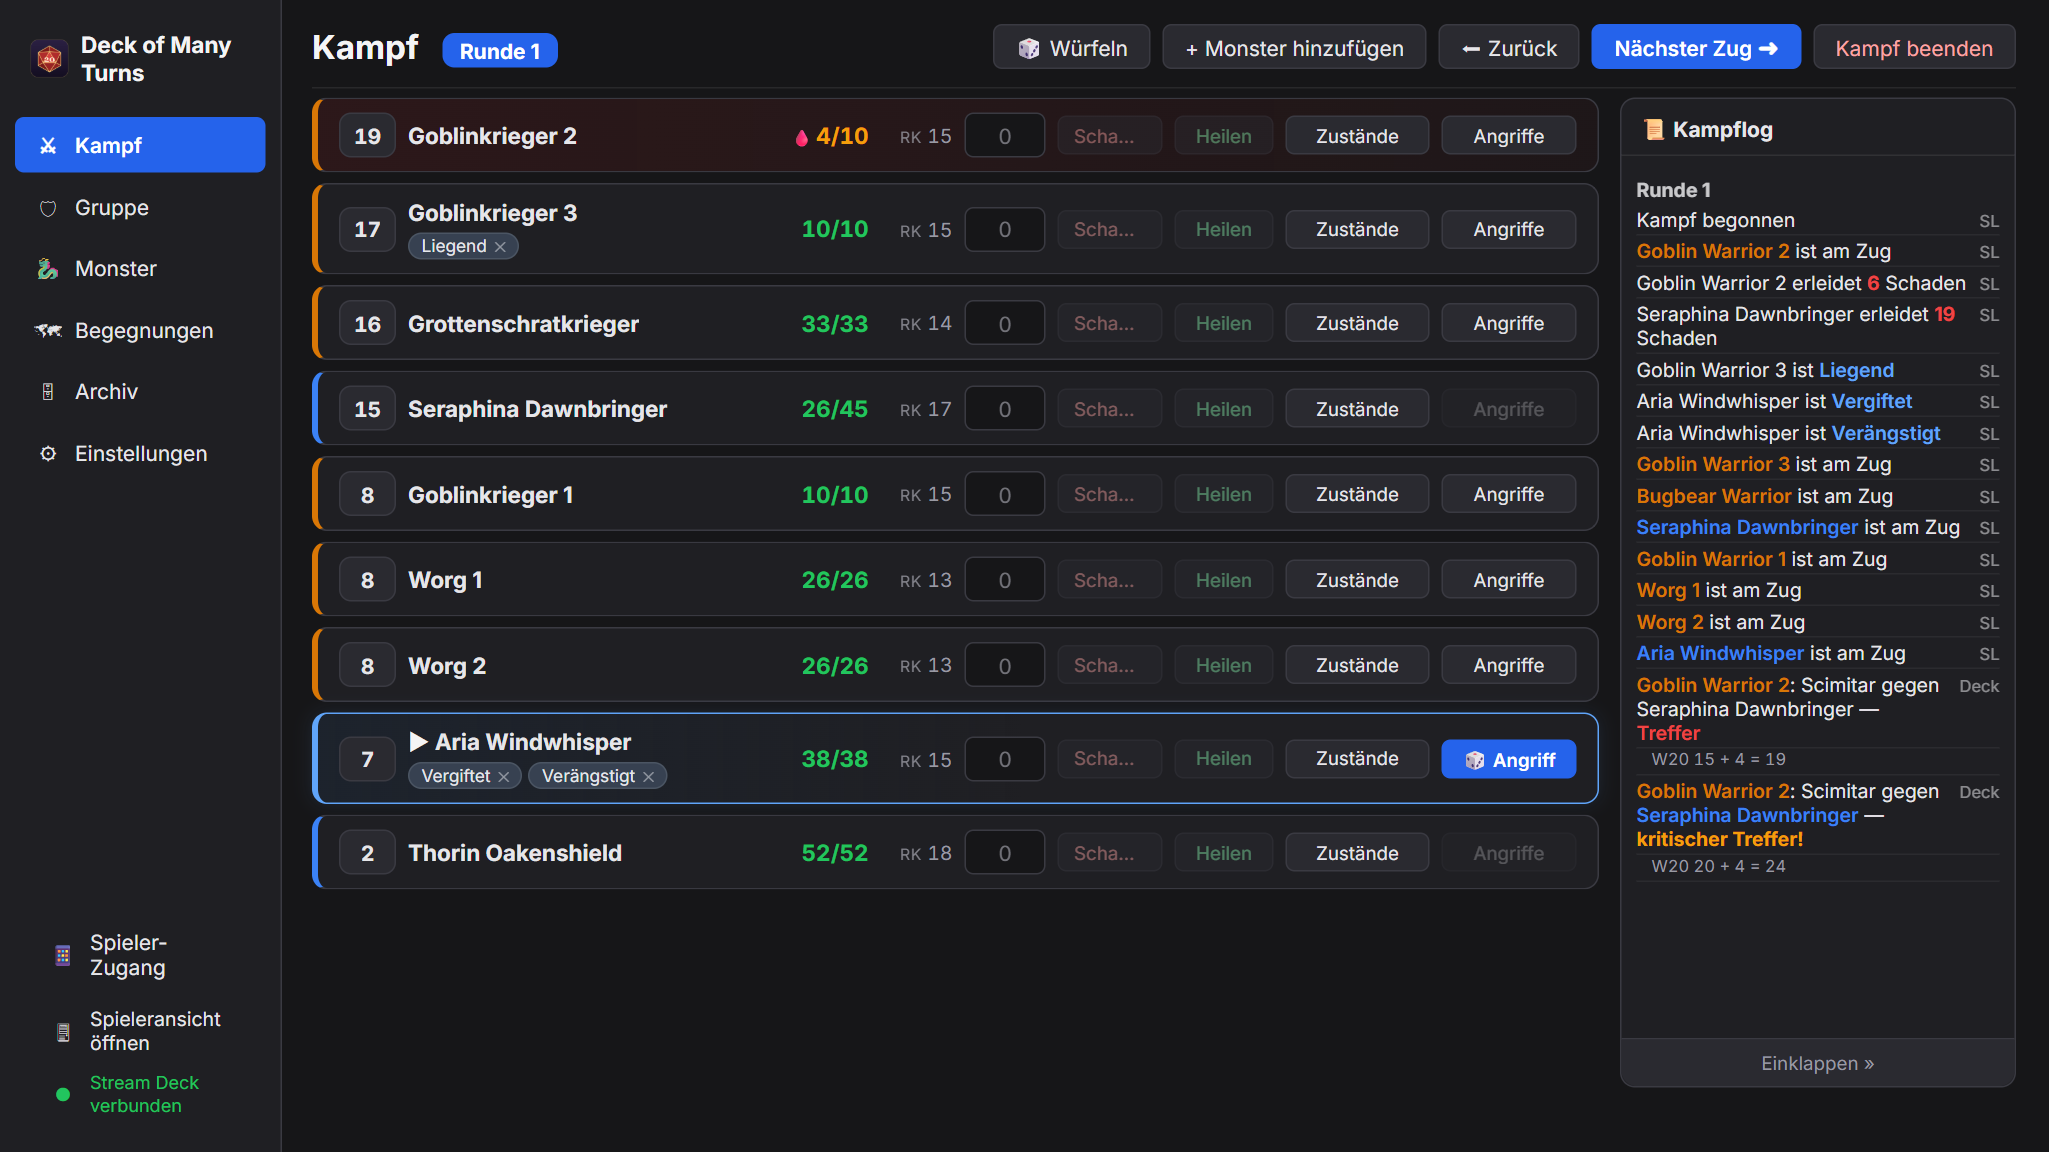
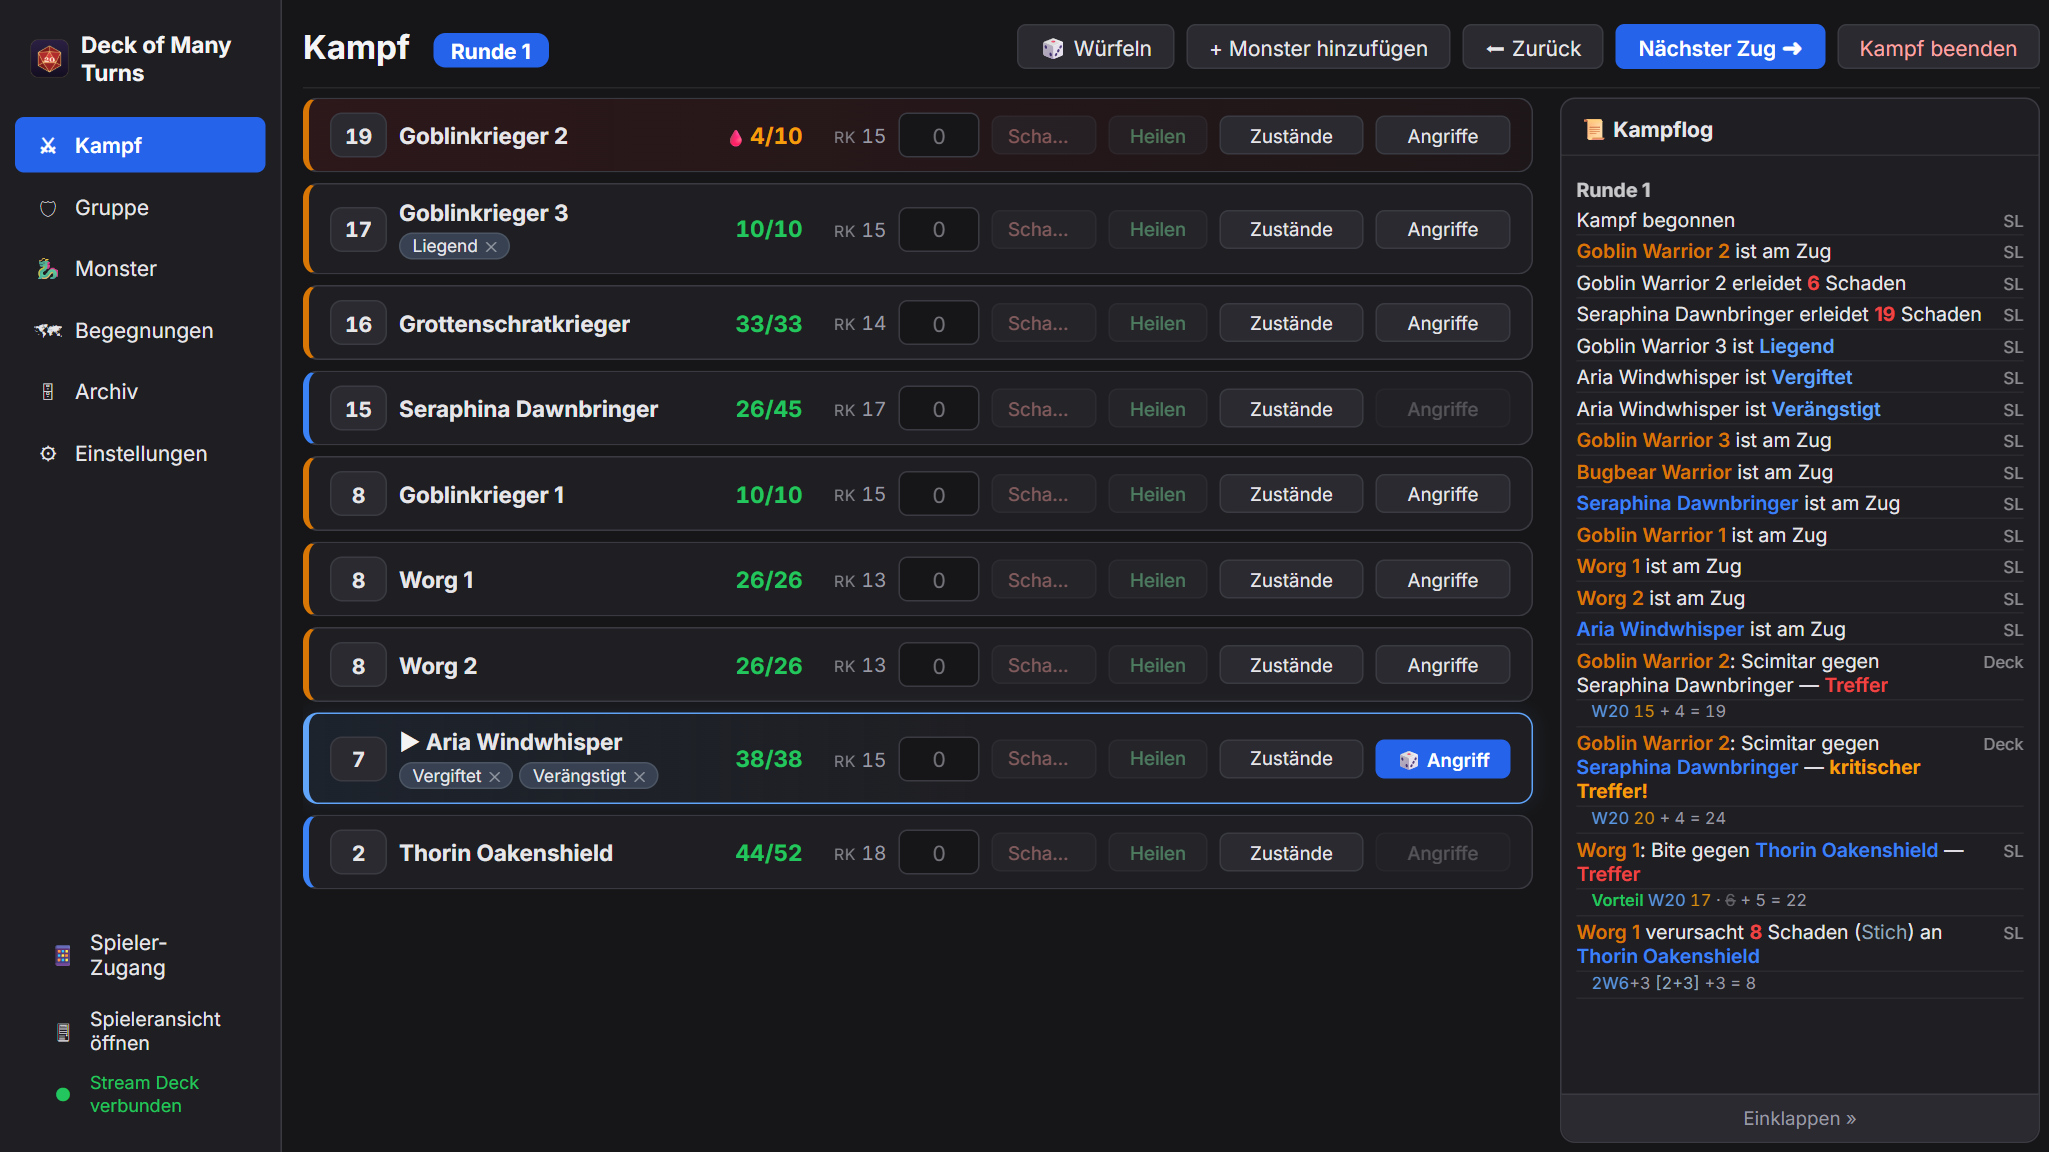
v3.1.0: version bump and refreshed screenshots
DM shots show the typed damage lines, Adv./Dis. tags and the tightened
combat layout; the phone trio shows the advantage selector and the
split roll flow.

diff --git a/README.md b/README.md
@@ -19,7 +19,7 @@ already in progress.
 ![React](https://img.shields.io/badge/React-19-61DAFB?logo=react&logoColor=black)
 ![TypeScript](https://img.shields.io/badge/TypeScript-5.6-3178C6?logo=typescript&logoColor=white)
 ![Stream Deck](https://img.shields.io/badge/Stream%20Deck-SDK%20v2-000000?logo=elgato&logoColor=white)
-![Release](https://img.shields.io/badge/release-v3.0.0-success)
+![Release](https://img.shields.io/badge/release-v3.1.0-success)
 
 </div>
 
@@ -102,7 +102,7 @@ for anyone integrating their own hardware or overlays.
 
 Grab both files from the [**latest release**](../../releases/latest):
 
-1. **App** — run `Deck of Many Turns Setup 3.0.0.exe` (NSIS installer, choose your own directory).
+1. **App** — run `Deck of Many Turns Setup 3.1.0.exe` (NSIS installer, choose your own directory).
 2. **Stream Deck plugin** — double-click `com.dmtools.dnd-combat-tracker.streamDeckPlugin`;
    the Stream Deck app installs it and registers the bundled picker profiles.
 3. Start the app. The plugin connects within a few seconds — the DM window's sidebar
@@ -636,7 +636,7 @@ npm install
 npm run dev        # live-reload dev session
 npm run dev:mobile # (second terminal) rebuild the player web bundle on change
 npm run build      # compile main/preload/renderer + player web bundle to out/
-npm run dist       # → release/Deck of Many Turns Setup 3.0.0.exe (NSIS)
+npm run dist       # → release/Deck of Many Turns Setup 3.1.0.exe (NSIS)
 ```
 
 The player web page is served as plain static files from `out/mobile` in dev and
